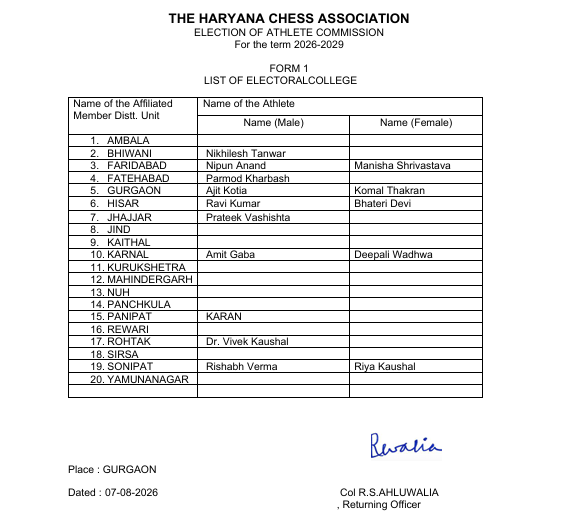
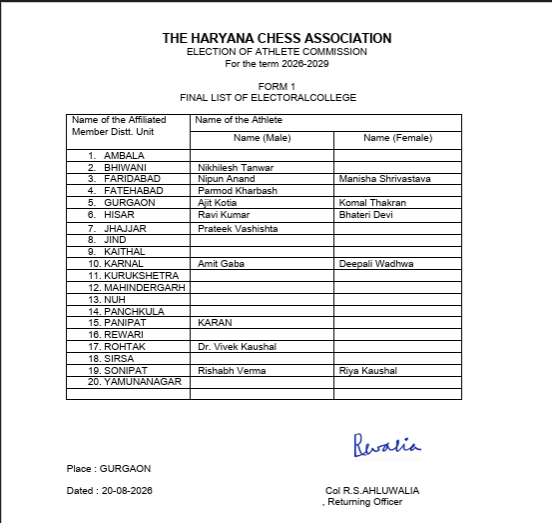
Update notice with Final List of Electoral College.
Replace the notice document image and banner text with the signed Form 1 Final List dated 20-08-2026.

diff --git a/index.html b/index.html
@@ -101,7 +101,7 @@
     <!-- Notice Notification Banner -->
     <div id="notice-banner" class="notification-banner">
         <div class="banner-content">
-            <span class="banner-text"><i class="fas fa-bell"></i> <strong>NOTICE:</strong> Election of Athlete Commission (2026-2029) – Form 1 List of Electoral College &bull; Click to View</span>
+            <span class="banner-text"><i class="fas fa-bell"></i> <strong>NOTICE:</strong> FINAL LIST OF ELECTORAL COLLEGE &bull; Click to View</span>
         </div>
     </div>
     <!-- Header / Navigation -->
@@ -355,7 +355,7 @@
         <div class="modal-content notice-modal-content">
             <button id="close-modal" class="modal-close" aria-label="Close modal">&times;</button>
             <div class="modal-body notice-modal-body">
-                <img src="assets/home/electoral_college_form1.png" alt="Form 1 List of Electoral College - Election of Athlete Commission 2026-2029" class="notice-doc-img">
+                <img src="assets/home/electoral_college_form1.png" alt="Form 1 Final List of Electoral College - Election of Athlete Commission 2026-2029" class="notice-doc-img">
             </div>
             </div>
         </div>
